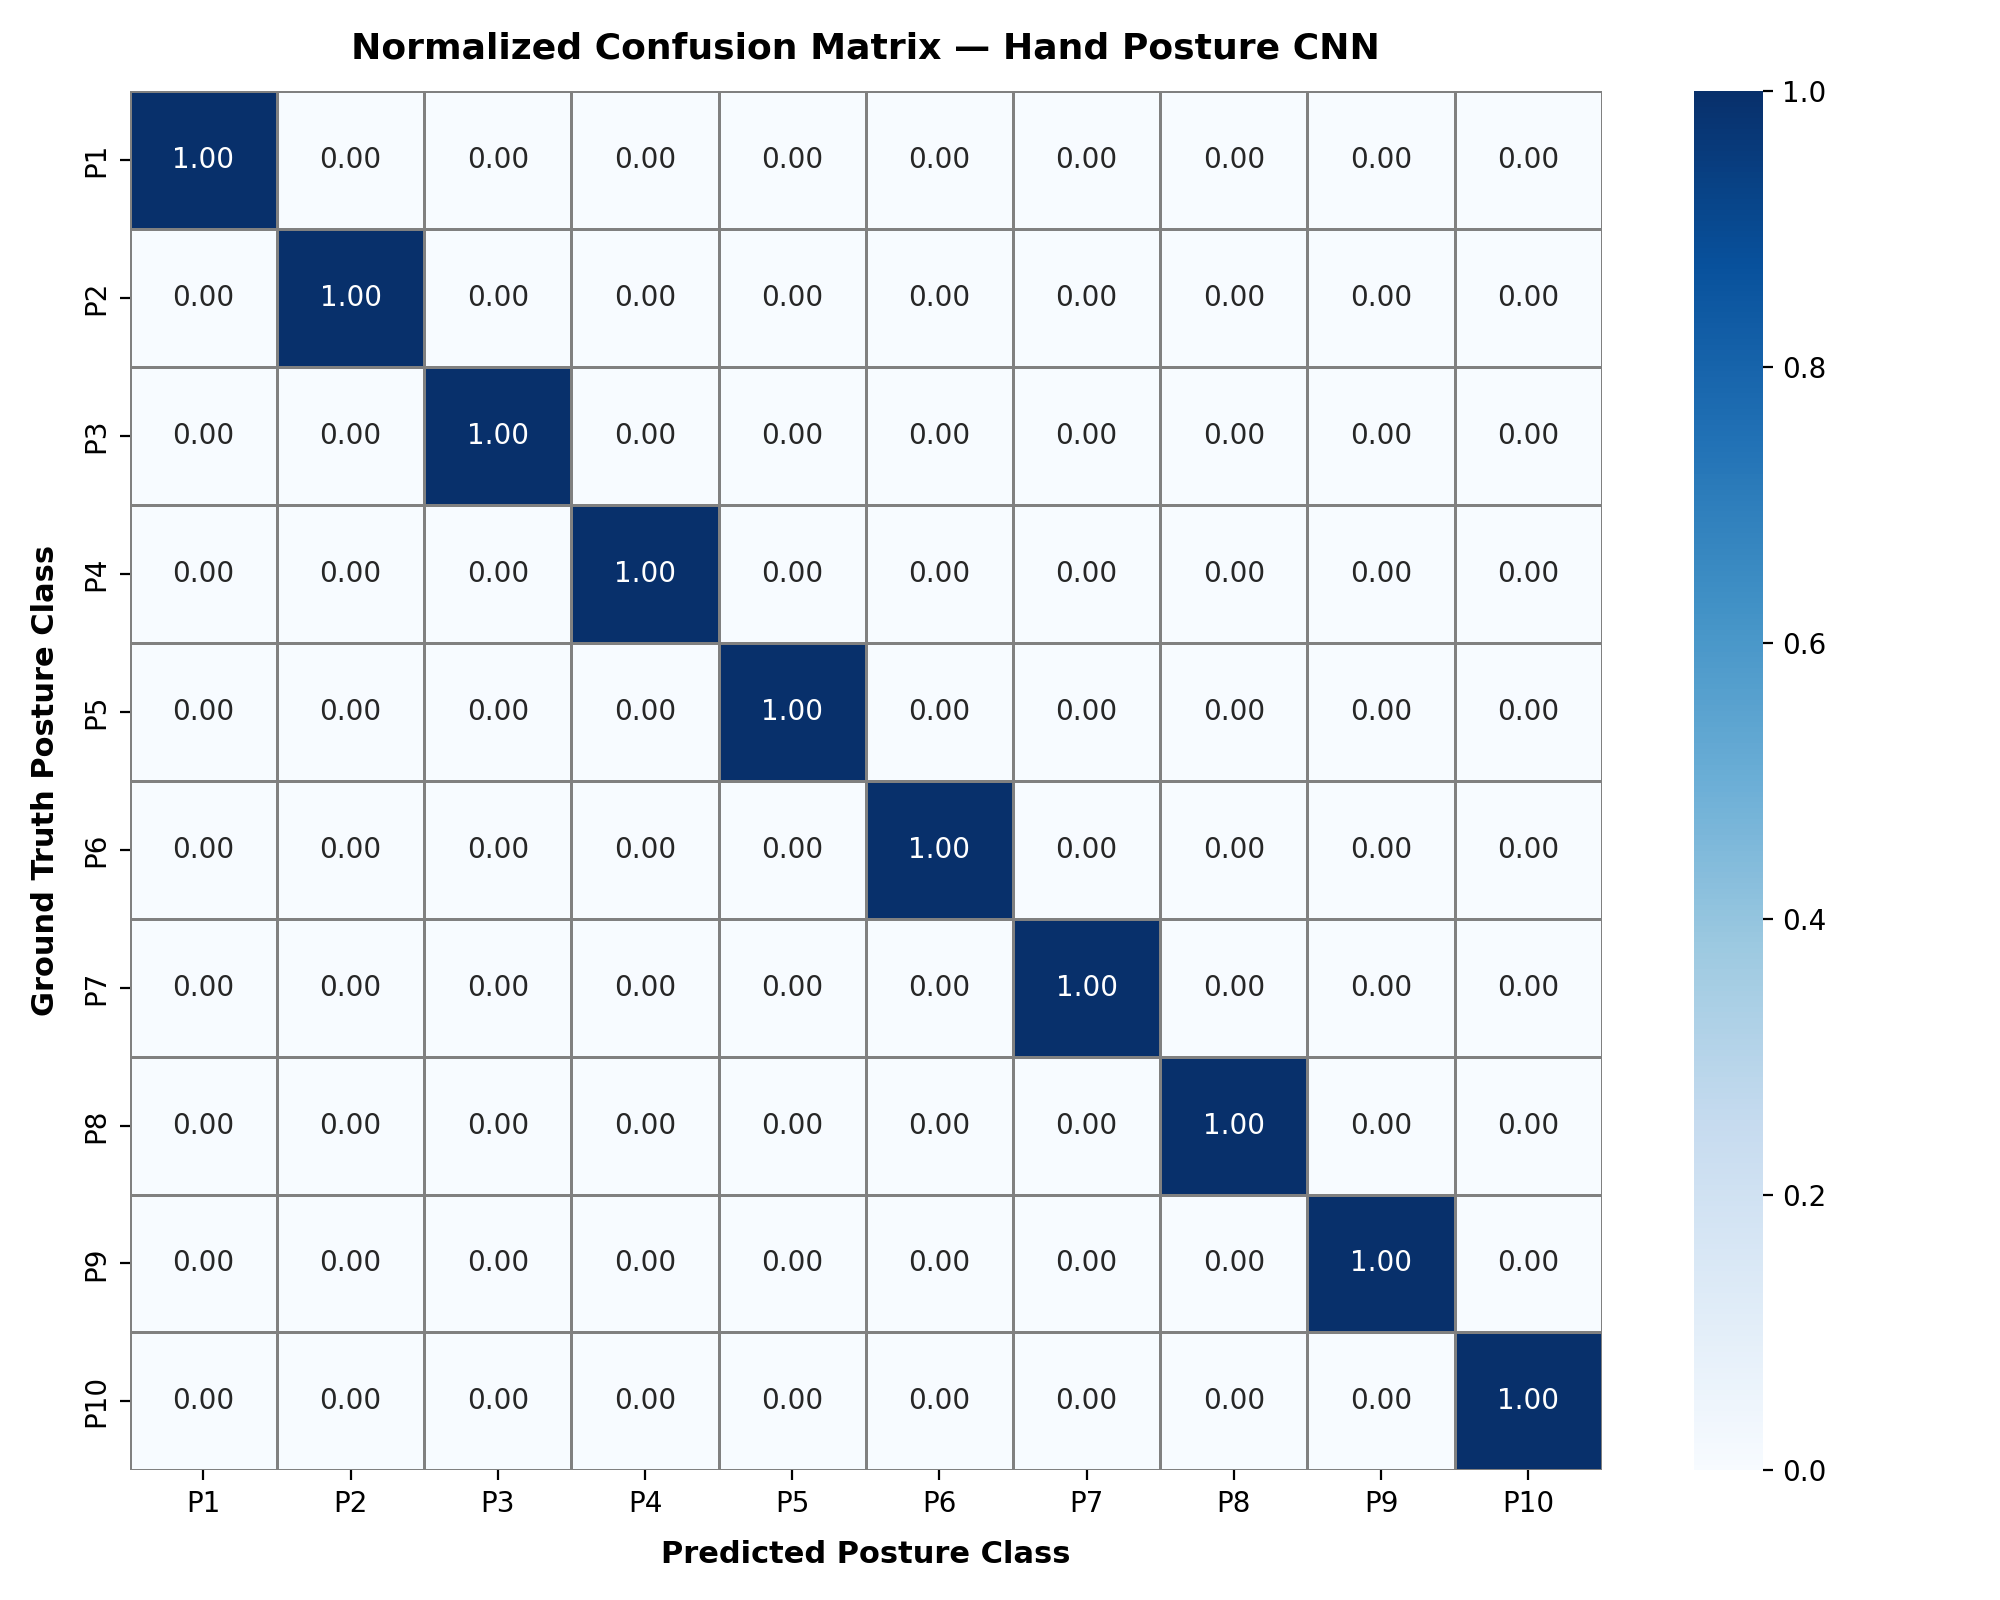
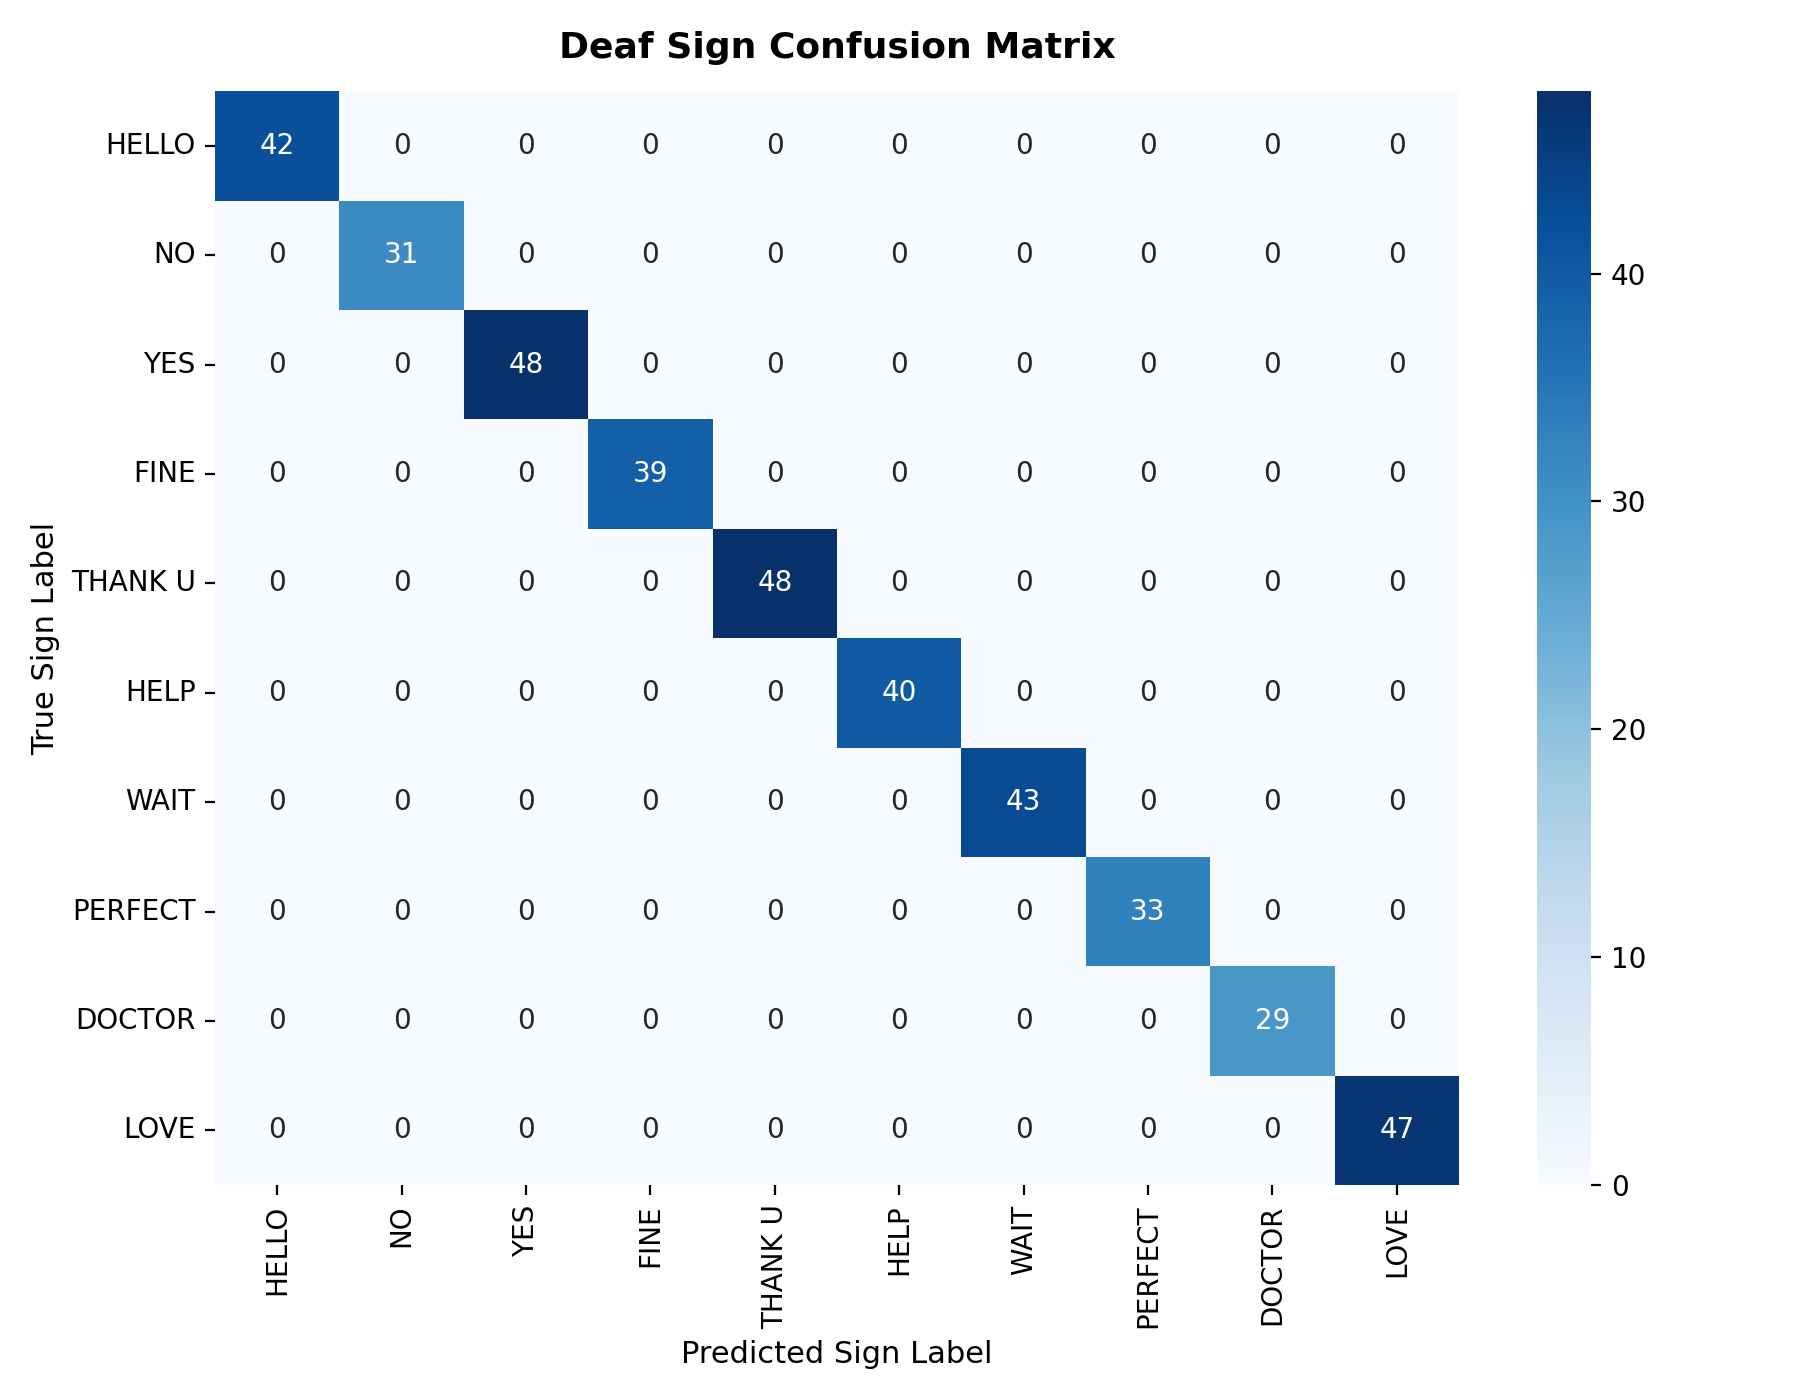
feat: change four-finger gesture from WATER to WAIT (Please wait a moment)

diff --git a/utils/gesture_classifier.py b/utils/gesture_classifier.py
@@ -16,7 +16,7 @@ CLASS_NAMES = [
     'thumbs_fine',
     'peace_thanks',
     'three_help',
-    'four_water',
+    'four_wait',
     'ok_perfect',
     'call_doctor',
     'ily_love'
@@ -29,7 +29,7 @@ GESTURE_LABELS = [
     'FINE / GOOD (Thumbs Up)',
     'THANK YOU (Peace / V)',
     'HELP (Three Fingers)',
-    'WATER (Four Fingers)',
+    'WAIT (Four Fingers)',
     'PERFECT (OK Sign)',
     'DOCTOR / CALL (Phone Sign)',
     'I LOVE YOU (ILY Sign)'
@@ -42,7 +42,7 @@ DEAF_SPOKEN_PHRASES = [
     "I am fine, everything is good",
     "Thank you very much",
     "Please help me, I need assistance",
-    "I need water to drink, please",
+    "Please wait a moment",
     "Everything is perfect and all good",
     "I need a doctor or call someone",
     "I love you, Goodbye"
@@ -55,7 +55,7 @@ GESTURE_COLORS = [
     (0, 200, 255),    # Yellow/Gold - Fine/Good
     (255, 140, 0),    # Orange - Thank You
     (200, 50, 220),   # Purple - Help
-    (240, 180, 50),   # Blue - Water
+    (50, 170, 240),   # Amber/Orange - Wait
     (50, 240, 150),   # Mint - Perfect
     (0, 100, 255),    # Coral - Doctor
     (255, 105, 180)   # Pink - I Love You
@@ -197,7 +197,7 @@ def classify_finger_gesture(landmarks_21x3, handedness="Right", model=None):
         pred_idx = 5
         confidence = 0.95
 
-    # 9. Four Fingers -> WATER (Sign 6): 4 fingers open, thumb curled
+    # 9. Four Fingers -> WAIT (Sign 6): 4 fingers open, thumb curled
     elif f['main_count'] == 4 and not f['thumb_out'] and not f['thumb_up']:
         pred_idx = 6
         confidence = 0.96

diff --git a/utils/assistive_comm.py b/utils/assistive_comm.py
@@ -14,16 +14,16 @@ from datetime import datetime
 
 # Mode 1: Daily Essential Communication Phrases
 DEAF_DAILY_PHRASES = {
-    0: "Hello, Welcome",
-    1: "No, Stop",
-    2: "Yes, I Agree",
-    3: "Thank You",
-    4: "I Need Help",
-    5: "Water Please",
-    6: "Good, I Understand",
-    7: "All Good, Perfect",
-    8: "Need Doctor or Medicine",
-    9: "I Love You, Goodbye"
+    0: "Hello, Nice to meet you",
+    1: "No, Please stop",
+    2: "Yes, I agree and understand",
+    3: "I am fine, everything is good",
+    4: "Thank you very much",
+    5: "Please help me, I need assistance",
+    6: "Please wait a moment",
+    7: "Everything is perfect and all good",
+    8: "I need a doctor or call someone",
+    9: "I love you, Goodbye"
 }
 
 # Mode 2: Fingerspelling Alphabet (A to J)

diff --git a/utils/helpers.py b/utils/helpers.py
@@ -45,7 +45,7 @@ def plot_confusion_matrix(y_true, y_pred, save_path=None, title='Deaf Sign Confu
     """Generates and saves a high-res confusion matrix heatmap."""
     from sklearn.metrics import confusion_matrix
     cm = confusion_matrix(y_true, y_pred)
-    short_labels = ["HELLO", "NO", "YES", "FINE", "THANK U", "HELP", "WATER", "PERFECT", "DOCTOR", "LOVE"]
+    short_labels = ["HELLO", "NO", "YES", "FINE", "THANK U", "HELP", "WAIT", "PERFECT", "DOCTOR", "LOVE"]
 
     plt.figure(figsize=(9, 7))
     sns.heatmap(cm, annot=True, fmt='d', cmap='Blues',

diff --git a/predict_image.py b/predict_image.py
@@ -62,7 +62,7 @@ def draw_prediction_card(image_bgr, pred_idx, confidence, probabilities, handedn
     sorted_indices = np.argsort(probabilities)[::-1][:3]
     bar_start_x = int(w * 0.50)
     bar_max_w = int(w * 0.46)
-    short_names = ["HELLO", "NO", "YES", "FINE", "THANK U", "HELP", "WATER", "PERFECT", "DOCTOR", "LOVE"]
+    short_names = ["HELLO", "NO", "YES", "FINE", "THANK U", "HELP", "WAIT", "PERFECT", "DOCTOR", "LOVE"]
 
     for i, idx in enumerate(sorted_indices):
         bar_y = 10 + i * 21

diff --git a/realtime_detect.py b/realtime_detect.py
@@ -169,7 +169,7 @@ def draw_deaf_probability_bars(frame, probabilities):
     cv2.putText(frame, "Sign Probabilities:", (start_x + 8, start_y + 18),
                 cv2.FONT_HERSHEY_SIMPLEX, 0.42, (0, 240, 255), 1, cv2.LINE_AA)
 
-    short_names = ["HELLO", "NO", "YES", "FINE", "THANK U", "HELP", "WATER", "PERFECT", "DOCTOR", "LOVE"]
+    short_names = ["HELLO", "NO", "YES", "FINE", "THANK U", "HELP", "WAIT", "PERFECT", "DOCTOR", "LOVE"]
     bar_max_w = 80
     bar_h = 13
     gap = 21

diff --git a/utils/prepare_dataset.py b/utils/prepare_dataset.py
@@ -108,7 +108,7 @@ def generate_canonical_landmarks(gesture_idx, handedness="Right"):
         extend_index()
         extend_middle()
         extend_ring()
-    elif gesture_idx == 6:  # WATER (Four Fingers)
+    elif gesture_idx == 6:  # WAIT (Four Fingers)
         extend_index()
         extend_middle()
         extend_ring()

diff --git a/README.md b/README.md
@@ -17,7 +17,7 @@ Every gesture has a completely unique finger configuration that works with **bot
 | **FINE / GOOD** | **Thumbs Up** (thumb up, 4 curled) | *"I am fine, everything is good"* | Clarity & Well-being |
 | **THANK YOU** | **Peace / V Sign** (Index + Middle open) | *"Thank you very much"* | Gratitude & Politeness |
 | **HELP** | **Three Fingers** (Index, Middle, Ring) | *"Please help me, I need assistance"* | Immediate Assistance |
-| **WATER** | **Four Fingers** (Index, Middle, Ring, Pinky) | *"I need water to drink, please"* | Sustenance |
+| **WAIT** | **Four Fingers** (Index, Middle, Ring, Pinky) | *"Please wait a moment"* | Pause & Patience |
 | **PERFECT** | **OK Sign** (Thumb & Index circle, 3 open) | *"Everything is perfect and all good"* | Satisfaction |
 | **DOCTOR / CALL** | **Phone Sign** (Thumb & Pinky open) | *"I need a doctor or call someone"* | Medical & Urgent Call |
 | **I LOVE YOU** | **ILY Sign** (Thumb, Index, Pinky open) | *"I love you, Goodbye"* | Affection & Parting |
